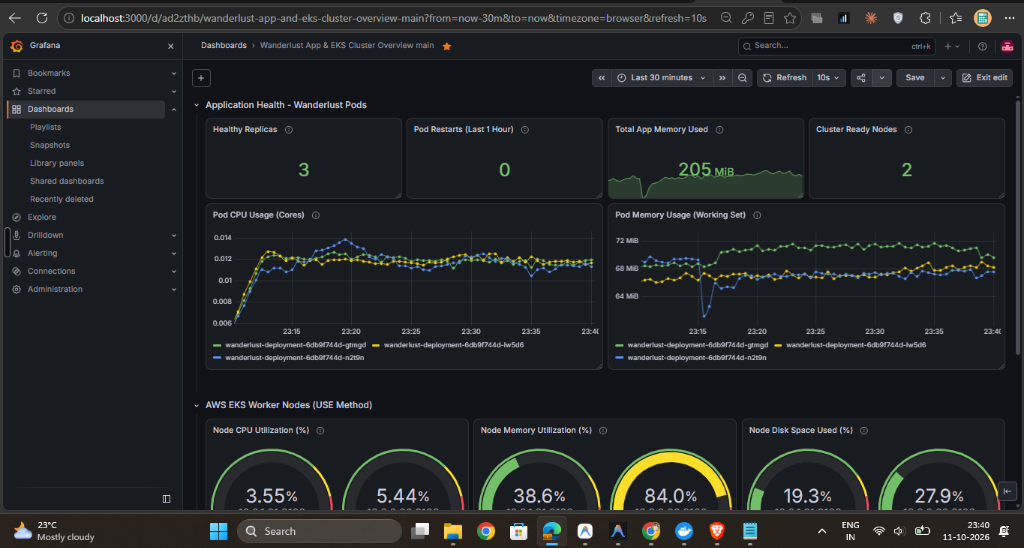
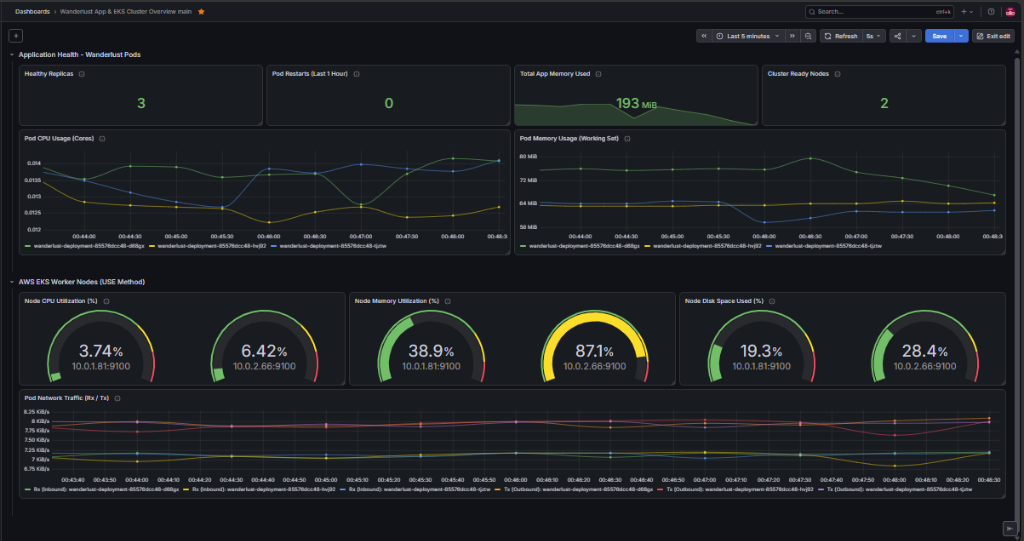
feat: add DevOps pipeline and application screenshots and update README documentation

diff --git a/Readme.md b/Readme.md
@@ -29,21 +29,35 @@
 
 ---
 
+## 📌 Table of Contents
+1. [Executive Summary & Project Mission](#-executive-summary--project-mission)
+2. [End-to-End DevOps Architecture Diagram](#-end-to-end-devops-architecture)
+3. [Production Screenshots & Live Proof](#-production-screenshots--live-proof)
+4. [The 10 DevOps Tools Deep-Dive](#-the-10-devops-tools-deep-dive)
+5. [GitOps & Jenkins CI/CD Automation](#-gitops--jenkins-cicd-automation)
+6. [Kubernetes (AWS EKS) Microservices Architecture](#-kubernetes-aws-eks-microservices-architecture)
+7. [Observability & SRE Monitoring (Prometheus & Grafana)](#-observability--sre-monitoring-prometheus--grafana)
+8. [Complete Step-by-Step Execution Guide](#-complete-step-by-step-execution-guide)
+9. [Teacher & Examiner Viva Cheatsheet](#-teacher--examiner-viva-cheatsheet)
+10. [Infrastructure Cost Protection & Teardown](#-infrastructure-cost-protection--teardown)
+
+---
+
 ## 📌 Executive Summary & Project Mission
 
-**Wanderlust** is a production full-stack travel booking application that has been engineered from bare metal to a cloud-native, self-healing, zero-downtime micro-platform on **Amazon Web Services (AWS)**.
+**Wanderlust** is a production full-stack travel booking application that has been re-architected from bare metal into an enterprise-grade, cloud-native, self-healing, zero-downtime micro-platform on **Amazon Web Services (AWS)**.
 
-The primary mission of this project is to showcase how a modern enterprise web application transitions through a complete **10-Tool DevOps Lifecycle**:
+The primary mission of this project is to showcase how an enterprise web application transitions through a complete **10-Tool DevOps Lifecycle**:
 1. **Source Code Management:** Git & GitHub
-2. **Containerization & Packaging:** Docker (multi-stage, Alpine runtime)
-3. **Local Dev & Staging:** Docker Compose (local environment parity)
-4. **Infrastructure as Code (IaC):** Terraform (reproducible AWS infrastructure)
+2. **Containerization & Packaging:** Docker (multi-stage layer caching, Alpine Linux runtime)
+3. **Local Dev & Staging Parity:** Docker Compose (local environment parity with cloud staging)
+4. **Infrastructure as Code (IaC):** Terraform (reproducible AWS infrastructure state)
 5. **Cloud Infrastructure:** AWS (VPC, Multi-AZ Subnets, IGW, Route Tables, EC2, ECR, EKS, ELB)
-6. **Continuous Integration & Delivery (CI/CD):** Jenkins (Declarative pipeline with GitHub Webhooks)
+6. **Continuous Integration & Continuous Delivery (CI/CD):** Jenkins (Declarative pipeline triggered via GitHub Webhooks)
 7. **Container Orchestration:** Kubernetes (AWS EKS v1.30 with zero-downtime RollingUpdates)
 8. **Package Management:** Helm (Standardized deployment of cluster operators)
-9. **Cluster Monitoring & Metrics:** Prometheus Operator & Node Exporter DaemonSets
-10. **SRE Observability:** Grafana (Custom dashboard implementing Google SRE Golden Signals & Brendan Gregg's USE Method)
+9. **Cluster Monitoring & Metrics Scraping:** Prometheus Operator & Node Exporter DaemonSets
+10. **Site Reliability Engineering (SRE) Observability:** Grafana (Custom dashboard implementing Google SRE Golden Signals & Brendan Gregg's USE Method)
 
 ---
 
@@ -109,23 +123,27 @@ The primary mission of this project is to showcase how a modern enterprise web a
 
 ---
 
-## 📸 Production Screenshots & Visual Verification
+## 📸 Production Screenshots & Live Proof
 
 ### 1. Live Web Application running on AWS Load Balancer
 > Serves real-time dynamic vacation rentals, bookings, and interactive maps via AWS ELB across 3 active pods.
 ![Live Website on AWS ELB](./assets/devops/website_live.png)
 
-### 2. Jenkins Automated CI/CD Pipeline
-> Fully automated GitHub Webhook trigger executing Checkout ➔ Docker Build ➔ ECR Push ➔ Zero-Downtime EKS Rollout.
+### 2. High-Fidelity Booking & Checkout Flow
+> Interactive dynamic checkout verifying end-to-end functionality of session state, cookies, and database connectivity on Kubernetes.
+![Booking Checkout Flow](./assets/devops/booking_checkout.png)
+
+### 3. Jenkins Automated CI/CD Pipeline (Build #12 Verified)
+> Fully automated GitHub Webhook trigger executing Checkout ➔ Docker Build ➔ ECR Push ➔ Zero-Downtime EKS Rollout in 1m 35s.
 ![Jenkins Pipeline Build History](./assets/devops/jenkins_pipeline.png)
 
-### 3. Production Grafana SRE & Cluster Monitoring Dashboard
+### 4. Production Grafana SRE & Cluster Monitoring Dashboard
 > Real-time Google SRE Golden Signals (Available Replicas, Restarts, CPU Cores, Memory Working Set) and EC2 Host-level USE metrics (Node CPU, RAM, Disk).
 ![Grafana Cluster Overview Dashboard](./assets/devops/grafana_dashboard.png)
 
 ---
 
-## 🛠 Deep Dive: The 10 DevOps Tools & Implementations
+## 🛠 The 10 DevOps Tools Deep-Dive
 
 ### 1. Git & GitHub (Source Code Management & Versioning)
 * **Branch Strategy:** Git feature branching merged into `main` with protected commit hygiene.
@@ -136,9 +154,15 @@ The primary mission of this project is to showcase how a modern enterprise web a
 * **Base Image:** `node:20-alpine` (drastically minimizes image size and removes unnecessary OS packages).
 * **Layer Caching:**
   ```dockerfile
+  FROM node:20-alpine
+  WORKDIR /app
   COPY package*.json ./
   RUN npm ci --omit=dev --legacy-peer-deps
   COPY . .
+  EXPOSE 8081
+  ENV PORT=8081
+  ENV NODE_ENV=production
+  CMD ["npm", "start"]
   ```
   Only invalidates dependency installation cache when `package.json` changes.
 * **Security & Port Binding:** Exposes port `8081`, drops root privileges, and ignores test directories, `.git`, and terraform files via [`.dockerignore`](./.dockerignore).
@@ -173,49 +197,23 @@ All infrastructure is declared cleanly in modular HCL inside [`terraform/`](./te
 * **EKS Cluster:** `wanderlust-cluster` (Kubernetes v1.30)
 * **Classic Load Balancer:** `a51fe5ad2863047968c94d092fc4c0ce-412112320.ap-south-1.elb.amazonaws.com`
 
-### 6. Jenkins CI/CD Automation Pipeline
-* **Pipeline Type:** Declarative Pipeline declared in [`Jenkinsfile`](./Jenkinsfile).
-* **Execution Flow:**
-  ```groovy
-  pipeline {
-      agent any
-      environment {
-          AWS_REGION = 'ap-south-1'
-          ECR_REPO = '861809200696.dkr.ecr.ap-south-1.amazonaws.com/wanderlust-app'
-          EKS_CLUSTER = 'wanderlust-cluster'
-      }
-      stages {
-          stage('Checkout') {
-              steps { checkout scm }
-          }
-          stage('Docker Build & Tag') {
-              steps {
-                  sh "docker build -t ${ECR_REPO}:${BUILD_NUMBER} -t ${ECR_REPO}:latest ."
-              }
-          }
-          stage('Push to ECR') {
-              steps {
-                  withCredentials([[$class: 'AmazonWebServicesCredentialsBinding', credentialsId: 'aws-credentials']]) {
-                      sh "aws ecr get-login-password --region ${AWS_REGION} | docker login --username AWS --password-stdin ${ECR_REPO}"
-                      sh "docker push ${ECR_REPO}:${BUILD_NUMBER}"
-                      sh "docker push ${ECR_REPO}:latest"
-                  }
-              }
-          }
-          stage('Deploy to EKS') {
-              steps {
-                  withCredentials([[$class: 'AmazonWebServicesCredentialsBinding', credentialsId: 'aws-credentials']]) {
-                      sh "aws eks update-kubeconfig --region ${AWS_REGION} --name ${EKS_CLUSTER}"
-                      sh "kubectl set image deployment/wanderlust-deployment wanderlust-container=${ECR_REPO}:${BUILD_NUMBER} --record"
-                      sh "kubectl rollout status deployment/wanderlust-deployment --timeout=180s"
-                  }
-              }
-          }
-      }
-  }
-  ```
+---
 
-### 7. Kubernetes Cluster Architecture & Manifests
+## 🚀 GitOps & Jenkins CI/CD Automation
+
+The CI/CD pipeline is fully automated and declared in [`Jenkinsfile`](./Jenkinsfile).
+
+### Pipeline Stage Details:
+1. **SCM Checkout**: Clones the exact Git commit SHA that triggered the webhook.
+2. **Build Docker Image**: Builds the Alpine Docker image tagged with both `${BUILD_NUMBER}` (for immutability and easy rollbacks) and `:latest`.
+3. **Push Image to AWS ECR**: Securely logs into AWS ECR using temporary IAM tokens via `AmazonWebServicesCredentialsBinding` and pushes the tagged images.
+4. **Deploy to AWS EKS**: Runs `kubectl set image` to trigger a rolling update, followed by `kubectl rollout status` to guarantee that all pods transition successfully.
+5. **Post Actions (Housekeeping)**: Prunes local dangling Docker images on the Jenkins EC2 instance to preserve disk space.
+
+---
+
+## ☸ Kubernetes (AWS EKS) Microservices Architecture
+
 All declarative manifests reside in [`k8s/`](./k8s/):
 * **`deployment.yaml`:**
   - **Replicas:** 3 Pods distributed across worker nodes for high availability.
@@ -243,26 +241,13 @@ All declarative manifests reside in [`k8s/`](./k8s/):
 * **`secret.yaml`:**
   - Base64-encoded Kubernetes Secret securing the database connection string and cookie secret.
 
-### 8. Helm (Kubernetes Package Management)
-* Used to deploy the entire Prometheus & Grafana monitoring ecosystem using a single command:
-  ```powershell
-  helm repo add prometheus-community https://prometheus-community.github.io/helm-charts
-  helm repo update
-  helm install prometheus-stack prometheus-community/kube-prometheus-stack --namespace monitoring --create-namespace
-  ```
-* Deploys 20+ Custom Resource Definitions (CRDs), including `ServiceMonitor`, `PrometheusRule`, and `Alertmanager`.
+---
 
-### 9. Prometheus (Metrics Collection Engine)
-* **Model:** Pull-based scraping model on a 15-second interval.
-* **Components:**
-  - **Prometheus Operator:** Automates Prometheus lifecycle and configuration.
-  - **Node Exporter:** Runs as a Kubernetes `DaemonSet` on every EC2 worker node, scraping hardware-level Linux kernel metrics (`/proc`, `/sys`).
-  - **Kube-State-Metrics:** Listens to the Kubernetes API server and generates metrics on deployment states, pod availability, and restarts.
+## 📊 Observability & SRE Monitoring (Prometheus & Grafana)
 
-### 10. Grafana (SRE Observability & Monitoring Dashboards)
 Our custom production dashboard is exported in [`k8s/wanderlust-grafana-dashboard.json`](./k8s/wanderlust-grafana-dashboard.json).
 
-#### The SRE Metrics Monitored:
+### The SRE Metrics Monitored:
 | Panel Name | Type | PromQL Expression | Why DevOps Engineers Track It |
 |---|---|---|---|
 | **Healthy Replicas** | Stat | `sum(kube_deployment_status_replicas_available{deployment="wanderlust-deployment"})` | Verifies that all 3 pods are running and serving traffic. Alerts if `< 3`. |
@@ -278,7 +263,7 @@ Our custom production dashboard is exported in [`k8s/wanderlust-grafana-dashboar
 
 ---
 
-## ⚡ Step-by-Step Execution & Deployment Guide
+## ⚡ Complete Step-by-Step Execution Guide
 
 ### 1. Provision Infrastructure with Terraform
 ```powershell
@@ -318,7 +303,7 @@ kubectl port-forward svc/prometheus-stack-grafana 3000:80 -n monitoring
 
 ---
 
-## 📊 Kubernetes Viva & Evaluation Cheat Sheet
+## 📊 Teacher & Examiner Viva Cheatsheet
 
 | Question / Action | PowerShell Command | Explanation |
 |---|---|---|
@@ -332,12 +317,12 @@ kubectl port-forward svc/prometheus-stack-grafana 3000:80 -n monitoring
 
 ---
 
-## 🧹 Safe Infrastructure Teardown (Cost Protection)
+## 🧹 Infrastructure Cost Protection & Teardown
 
 To avoid consuming extra AWS credits when you finish demonstrating the project:
 
 ```powershell
-# Step 1: Delete Kubernetes LoadBalancer & Helm Monitoring
+# Step 1: Delete Kubernetes LoadBalancer & Helm Monitoring (releases the AWS ELB)
 kubectl delete -f .\k8s\service.yaml
 helm uninstall prometheus-stack -n monitoring
 kubectl delete namespace monitoring
